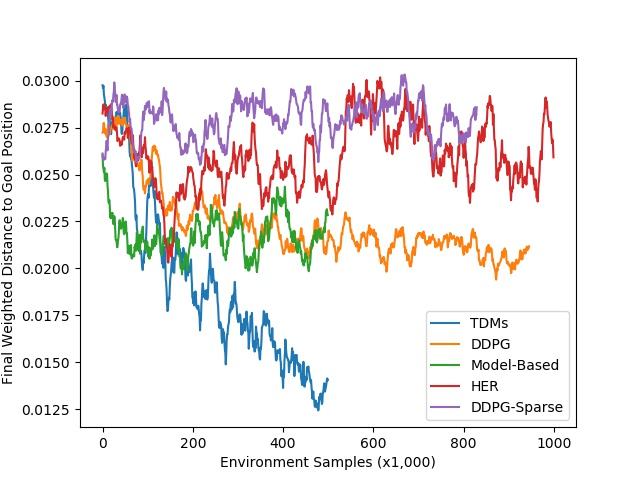
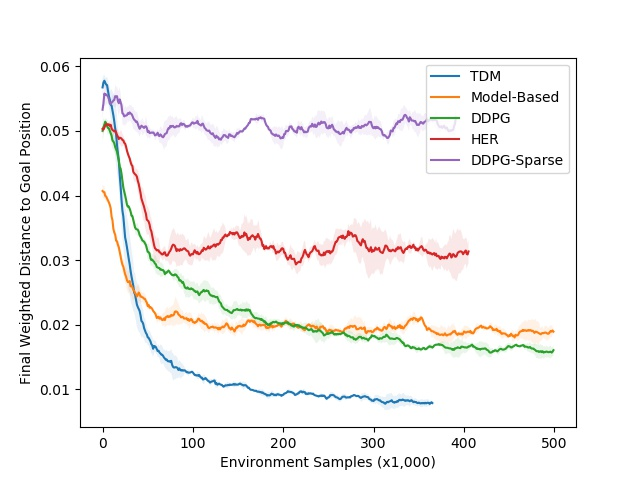
finish making figures

diff --git a/experiments/state_distance/iclr2018/reacher_results.py b/experiments/state_distance/iclr2018/reacher_results.py
@@ -1,56 +1,54 @@
-from railrl.misc.data_processing import Experiment
+from railrl.misc.data_processing import get_trials
 import matplotlib.pyplot as plt
 import numpy as np
 
-
-her_andry_trials = Experiment(
-    '/home/vitchyr/git/railrl/data/doodads3/12-24-her-andrychowicz-reacher-rebutal/'
-).get_trials({
-    'exp_id': '7',
-})
-
-ddpg_path = "/mnt/data-backup-12-02-2017/doodads3/10-25-ddpg" \
-            "-reacher-pusher-baseline/"
-ddpg_criteria = {
-    'algo_params.num_updates_per_env_step': 1,
-    'algo_params.scale_reward': 1,
-    'algo_params.tau': 0.001,
-    'env_class.$class': "railrl.envs.multitask.her_reacher_7dof_env.Reacher7Dof"
-}
+her_andry_trials = get_trials(
+    '/home/vitchyr/git/railrl/data/doodads3/12-24-her-andrychowicz-reacher-rebutal/',
+    criteria={
+        'exp_id': '7',
+    },
+)
 
 mb_path = "/home/vitchyr/git/railrl/data/doodads3/12-24-model-based-reacher-multitask-fixed-2/"
-mb_criteria = {'dagger_params.normalize': True, 'algorithm': 'Model-Based'}
-our_path = "/mnt/data-backup-12-02-2017/doodads3/10-27-sdql-reacher-get-long-results"
-our_criteria = {
-    'epoch_discount_schedule_params.value': 15,
-    'eval_with_oc_policy': False,
-    'algo_params.num_updates_per_env_step': 25,
-}
-ddpg_indicator_trials = Experiment(
-    "/home/vitchyr/git/railrl/data/doodads3/12-23-ddpg-sparse-sweep-4/"
-).get_trials({
-    'env_class.$class':
-        "railrl.envs.multitask.reacher_7dof.Reacher7DofXyzGoalState",
-    'ddpg_tdm_kwargs.base_kwargs.num_updates_per_env_step': 1,
-})
+ddpg_indicator_trials = get_trials(
+    "/home/vitchyr/git/railrl/data/doodads3/12-23-ddpg-sparse-sweep-4/",
+    criteria={
+        'env_class.$class':
+            "railrl.envs.multitask.reacher_7dof.Reacher7DofXyzGoalState",
+        'ddpg_tdm_kwargs.base_kwargs.num_updates_per_env_step': 1,
+    },
+)
 
-our_exp = Experiment(our_path)
-our_trials = our_exp.get_trials(our_criteria)
-t1 = our_trials[0]
+tdm_trials = get_trials(
+    "/mnt/data-backup-12-02-2017/doodads3/10-27-sdql-reacher-get-long-results",
+    criteria={
+        'epoch_discount_schedule_params.value': 15,
+        'eval_with_oc_policy': False,
+        'algo_params.num_updates_per_env_step': 25,
+    }
+)
 
-ddpg_exp = Experiment(ddpg_path)
-mb_exp = Experiment(mb_path)
-
-ddpg_trials = ddpg_exp.get_trials(ddpg_criteria)
-mb_trials = mb_exp.get_trials(mb_criteria)
+ddpg_trials = get_trials(
+    "/mnt/data-backup-12-02-2017/doodads3/10-25-ddpg-reacher-pusher-baseline/",
+    criteria={
+        'algo_params.num_updates_per_env_step': 1,
+        'algo_params.scale_reward': 1,
+        'algo_params.tau': 0.001,
+        'env_class.$class': "railrl.envs.multitask.her_reacher_7dof_env.Reacher7Dof"
+    }
+)
+mb_trials = get_trials(
+    "/home/vitchyr/git/railrl/data/doodads3/12-24-model-based-reacher-multitask-fixed-2/",
+    criteria={'dagger_params.normalize': True, 'algorithm': 'Model-Based'},
+)
 
 MAX_ITERS = 100
 
 base_key = 'Final_Euclidean_distance_to_goal_Mean'
 plt.figure()
 for trials, name, key in [
+    (tdm_trials, 'TDM', 'test_' + base_key),
     (mb_trials, 'Model Based', base_key),
-    (our_trials, 'TDM', 'test_'+base_key),
     (ddpg_trials, 'DDPG', base_key),
     (her_andry_trials, 'HER', base_key),
     (ddpg_indicator_trials, 'DDPG-Sparse', base_key),
@@ -69,13 +67,9 @@ for trials, name, key in [
     mean = np.mean(costs, axis=0)
     std = np.std(costs, axis=0)
     epochs = np.arange(0, len(costs[0]))
-    # if name == 'TDM':
-    #     epochs = epochs / 10
     plt.fill_between(epochs, mean - std, mean + std, alpha=0.1)
     plt.plot(epochs, mean, label=name)
 
-
-# plt.xscale('log')
 plt.xlabel("Environment Steps (x1000)")
 plt.ylabel("Final Distance to Goal")
 plt.legend()

diff --git a/experiments/state_distance/iclr2018/ant_target_pos_and_vel_results.py b/experiments/state_distance/iclr2018/ant_target_pos_and_vel_results.py
@@ -1,70 +1,62 @@
-from railrl.misc.data_processing import Experiment
 import matplotlib.pyplot as plt
 import numpy as np
 
+from railrl.misc.data_processing import get_trials
 from railrl.misc.visualization_util import sliding_mean
 
 
 def main():
-    tdm_trials = Experiment(
-        "/home/vitchyr/git/railrl/data/doodads3/01-02-ant-pos-and-vel-target/",
+    tdm_trials = get_trials(
+        "/home/vitchyr/git/railrl/data/doodads3/01-03-final-ant-pos-and-vel/",
         criteria={
-            # 'exp_id': '33',  # weight 0.99
-            'exp_id': '22',  # weight 0.9
             'algorithm': 'DDPG-TDM',
+            'exp_id': '17',
         }
-    ).get_trials()
-    mb_trials = Experiment(
-        "/home/vitchyr/git/railrl/data/doodads3/01-02-ant-pos-and-vel-target/",
+    )
+    ddpg_trials = get_trials(
+        "/home/vitchyr/git/railrl/data/doodads3/01-03-final-ant-pos-and-vel/",
         criteria={
-            # 'exp_id': '0',  #weight 0.99
-            'exp_id': '1',  #weight 0.9
-            'algorithm': 'Model-Based-Dagger',
-        }
-    ).get_trials()
-    ddpg_trials = Experiment(
-        "/home/vitchyr/git/railrl/data/doodads3/12-30-ant-pos-vel/",
-        criteria={
-            # 'exp_id': '6',  # weight 0.99
-            'exp_id': '8',  # weight 0.9
             'algorithm': 'DDPG',
+            'exp_id': '5',
         }
-    ).get_trials()
-    her_trials = Experiment(
-        "/home/vitchyr/git/railrl/data/doodads3/01-03-ant-pos-and-vel-her-and-sparse-ddpg/",
+    )
+    ddpg_sparse_trials = get_trials(
+        "/home/vitchyr/git/railrl/data/doodads3/01-03-final-ant-pos-and-vel/",
         criteria={
-            # 'exp_id': '27',  # weight 0.99
-            'exp_id': '37',  # weight 0.9
-        },
-    ).get_trials()
-    ddpg_sparse_trials = Experiment(
-        "/home/vitchyr/git/railrl/data/doodads3/01-03-ant-pos-and-vel-her-and-sparse-ddpg/",
+            'algorithm': 'DDPG-Sparse',
+            'exp_id': '22',
+        }
+    )
+    her_trials = get_trials(
+        "/home/vitchyr/git/railrl/data/doodads3/01-03-final-ant-pos-and-vel/",
         criteria={
-            # 'exp_id': '56',  # weight 0.99
-            'exp_id': '90',  # weight 0.9
-        },
-    ).get_trials()
+            'algorithm': 'HER-Andrychowicz',
+            'exp_id': '26',
+        }
+    )
+    mb_trials = get_trials(
+        "/home/vitchyr/git/railrl/data/doodads3/01-03-final-ant-pos-and-vel/",
+        criteria={
+            'algorithm': 'Model-Based-Dagger',
+            'exp_id': '4',
+        }
+    )
 
     MAX_ITERS = 1000000
 
     plt.figure()
-    vel_key = 'Final_weighted_vel_error_Mean'
-    pos_key = 'Final_weighted_pos_error_Mean'
-    speed_weight = 0.9
+    key = 'Final_Weighted_Error_Mean'
     for trials, name in [
-        (tdm_trials, 'TDMs'),
-        (ddpg_trials, 'DDPG'),
+        (tdm_trials, 'TDM'),
         (mb_trials, 'Model-Based'),
+        (ddpg_trials, 'DDPG'),
         (her_trials, 'HER'),
         (ddpg_sparse_trials, 'DDPG-Sparse'),
     ]:
         all_values = []
         for trial in trials:
             try:
-                values_ts = (
-                    speed_weight * trial.data[vel_key]
-                    + (1 - speed_weight) * trial.data[pos_key]
-                )
+                values_ts = trial.data[key]
                 values_ts = sliding_mean(values_ts, window=10)
             except:
                 import ipdb; ipdb.set_trace()

diff --git a/experiments/state_distance/iclr2018/nupo_sweep_ant_distance_6.py b/experiments/state_distance/iclr2018/nupo_sweep_ant_distance_6.py
@@ -23,14 +23,18 @@ def main():
 
     MAX_ITERS = 100
 
-    fig = plt.figure()
-    ax1 = fig.add_subplot(211)
-    ax2 = fig.add_subplot(212)
+    # ax1 = fig.add_subplot(211)
+    # ax2 = fig.add_subplot(212)
     plot_key = 'Final Distance to goal Mean'.replace(' ', '_')
-    for ax, exp, name in [
-        (ax1, relabel_exp, 'Relabel'),
-        (ax2, no_relabel_exp, 'No Relabel'),
+    # for ax, exp, name in [
+    #     (ax1, relabel_exp, 'Relabel'),
+    #     (ax2, no_relabel_exp, 'No Relabel'),
+    # ]:
+    for exp, name in [
+        (relabel_exp, 'Relabel'),
+        (no_relabel_exp, 'No Relabel'),
     ]:
+        fig = plt.figure()
         for nupo in [1, 5, 10, 20, 30]:
             trials = exp.get_trials({
                 'ddpg_tdm_kwargs.base_kwargs.num_updates_per_env_step': nupo
@@ -52,22 +56,24 @@ def main():
             mean = np.mean(costs, axis=0)
             std = np.std(costs, axis=0)
             epochs = np.arange(0, len(costs[0]))
-            ax.fill_between(epochs, mean - std, mean + std, alpha=0.1)
-            ax.plot(epochs, mean, label="{} updates per observation".format(
+            plt.fill_between(epochs, mean - std, mean + std, alpha=0.1)
+            plt.plot(epochs, mean, label="{} updates per step".format(
                 nupo
             ))
-        ax.set_title(name)
+        # plt.title(name)
 
-        ax.set_xlabel("Environment Samples (x1,000)")
-        ax.set_ylabel("Final Distance to Goal Position")
-    plt.legend()
-    print(fig.get_size_inches())
-    fig.set_size_inches(6.4*1, 4.8*2)
-    plt.savefig(
-        'results/iclr2018/ant-nupo-sweep.jpg',
-        transparent=True, bbox_inches='tight', pad_inches=0,
-    )
-    plt.show()
+        plt.xlabel("Environment Samples (x1,000)")
+        plt.ylabel("Final Distance to Goal Position")
+        plt.legend()
+        # print(fig.get_size_inches())
+        # fig.set_size_inches(6.4*1, 4.8*2)
+        plt.savefig(
+            'results/iclr2018/ant-nupo-sweep-{}.jpg'.format(
+                name.lower().replace(' ', '-')
+            ),
+            # transparent=True, bbox_inches='tight', pad_inches=0,
+        )
+        plt.show()
 
 
 if __name__ == '__main__':

diff --git a/experiments/state_distance/iclr2018/gym_pusher3d_results.py b/experiments/state_distance/iclr2018/gym_pusher3d_results.py
@@ -1,4 +1,4 @@
-from railrl.misc.data_processing import Experiment
+from railrl.misc.data_processing import get_trials
 import matplotlib.pyplot as plt
 import numpy as np
 
@@ -6,41 +6,41 @@ from railrl.misc.visualization_util import sliding_mean
 
 
 def main():
-    tdm_trials = Experiment(
-        "/home/vitchyr/git/railrl/data/doodads3/01-02-final-pusher-gym/",
+    tdm_trials = get_trials(
+        "/home/vitchyr/git/railrl/data/doodads3/01-03-final-gym-pusher3d/",
         criteria={
-            'exp_id': '9',
+            'exp_id': '16',
             'algorithm': 'DDPG-TDM',
         }
-    ).get_trials()
-    mb_trials = Experiment(
-        "/home/vitchyr/git/railrl/data/doodads3/01-02-final-pusher-gym/",
+    )
+    mb_trials = get_trials(
+        "/home/vitchyr/git/railrl/data/doodads3/01-03-final-gym-pusher3d/",
         criteria={
             'exp_id': '2',
             'algorithm': 'Model-Based-Dagger',
         }
-    ).get_trials()
-    ddpg_trials = Experiment(
-        "/home/vitchyr/git/railrl/data/doodads3/01-02-pre-final-pusher-gym/",
+    )
+    ddpg_trials = get_trials(
+        "/home/vitchyr/git/railrl/data/doodads3/01-03-final-gym-pusher3d/",
         criteria={
-            'exp_id': '3',
+            'exp_id': '7',
             'algorithm': 'DDPG',
         }
-    ).get_trials()
-    her_trials = Experiment(
-        "/home/vitchyr/git/railrl/data/doodads3/01-02-pre-final-pusher-gym/",
+    )
+    her_trials = get_trials(
+        "/home/vitchyr/git/railrl/data/doodads3/01-03-final-gym-pusher3d/",
         criteria={
-            'exp_id': '13',
+            'exp_id': '10',
             'algorithm': 'HER-Andrychowicz',
         }
-    ).get_trials()
-    ddpg_sparse_trials = Experiment(
-        "/home/vitchyr/git/railrl/data/doodads3/01-02-pre-final-pusher-gym/",
+    )
+    ddpg_sparse_trials = get_trials(
+        "/home/vitchyr/git/railrl/data/doodads3/01-03-final-gym-pusher3d/",
         criteria={
-            'exp_id': '5',
+            'exp_id': '8',
             'algorithm': 'DDPG-Sparse',
         }
-    ).get_trials()
+    )
 
     MAX_ITERS = 1000000
 

diff --git a/experiments/state_distance/baselines/ddpg.py b/experiments/state_distance/baselines/ddpg.py
@@ -76,9 +76,9 @@ if __name__ == "__main__":
 
     n_seeds = 1
     mode = "ec2"
-    exp_prefix = "ddpg-sweep-ant-max-d-6-sweep-discount-and-scale"
+    exp_prefix = "ddpg-ant-max-d-6-post-sweep"
 
-    num_epochs = 200
+    num_epochs = 1000
     num_steps_per_epoch = 1000
     num_steps_per_eval = 1000
     max_path_length = 50
@@ -173,7 +173,7 @@ if __name__ == "__main__":
         #     max_path_length,
         # ],
         'algo_kwargs.num_updates_per_env_step': [
-            1,
+            1, 5, 10
         ],
         # 'algo_kwargs.policy_pre_activation_weight': [
         #     1.,
@@ -182,14 +182,14 @@ if __name__ == "__main__":
         #     0.1,
         # ],
         'algo_kwargs.reward_scale': [
-            0.01, 0.1, 1, 10, 100, 1000, 10000,
+            10, 100, 1000, 10000
         ],
         'algo_kwargs.discount': [
-            0.8, 0.95, 0.98,
+            0.98,
         ],
-        # 'algo_kwargs.tau': [
-        #     0.05, 0.01, 0.001,
-        # ],
+        'algo_kwargs.tau': [
+            0.01, 0.001,
+        ],
         # 'algo_kwargs.eval_with_target_policy': [
         #     True, False
         # ],
